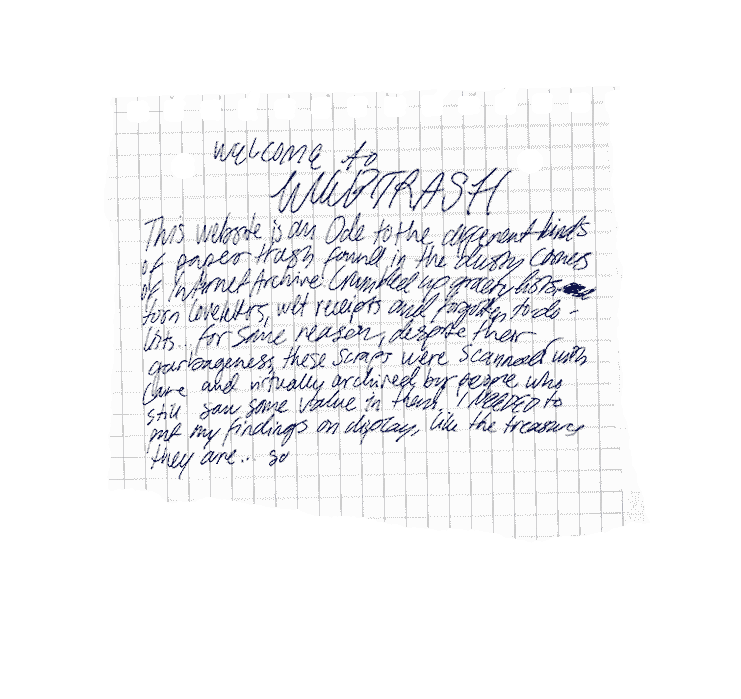
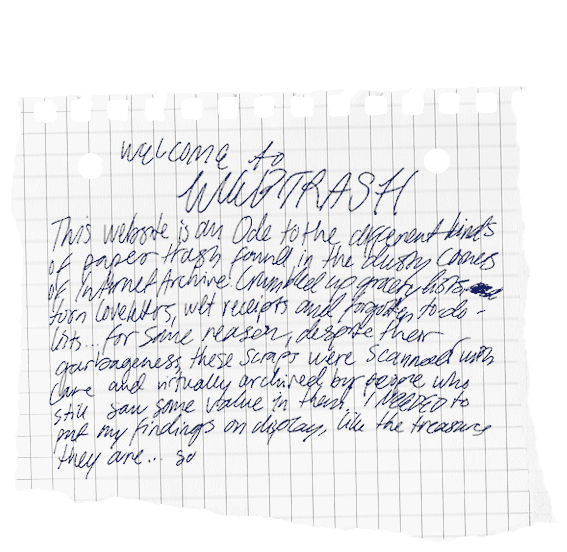
yksityiskohtien hiomista
letter-spacing from px to vw, changing the size of the img's and adjusting js code with it

diff --git a/css/trash.css b/css/trash.css
@@ -9,13 +9,6 @@
     src: url('../assets/fonts/CirrusCumulus.ttf ') format('truetype');
   }
 
-  .scroller {
-    width: 300px;
-    height: 100px;
-    overflow-y: scroll;
-    scrollbar-color: #007 #bada55;
-  }
-
 body {
     background: 
         /*linear-gradient(whitesmoke , transparent 10%),
@@ -42,10 +35,10 @@ header {
 
 header h1{
     font-family: Arial, Helvetica, sans-serif;
-    font-size: 10vw;
+    font-size: 12vw;
     color: #ffffe1;
     line-height: 0.9;
-    letter-spacing:-15px;
+    letter-spacing:-1vw;
     padding-right: 15%;
     
 }
@@ -99,7 +92,7 @@ nav a img{
 }
 
 .image-div img {
-    width: 500px; 
+    width: 200px; 
     height: auto;
     border-radius: 10px;
 }
@@ -117,7 +110,7 @@ nav a img{
     min-height: 30vh;
     margin-top: 10vh;
     overflow: auto;
-    scrollbar-color: #d2d2d2 #ffffe1;
+    scrollbar-color: lavender palegreen;
     scrollbar-width: thin;
     
 }

diff --git a/js/trash.js b/js/trash.js
@@ -13,8 +13,8 @@ function toggleDialog(event, id) {
 function positionImageDivs() {
     const imageDivs = document.querySelectorAll('.image-div');
     imageDivs.forEach(div => {
-        const x = Math.random() * (window.innerWidth - 500); // Adjust based on width of the div
-        const y = Math.random() * (window.innerHeight - 500); // Adjust based on header/footer height
+        const x = Math.random() * (window.innerWidth - 200); // Adjust based on width of the div
+        const y = Math.random() * (window.innerHeight - 200); // Adjust based on header/footer height
         div.style.position = 'absolute';
         div.style.left = `${Math.max(0, x)}px`; // Ensure x is not negative
         div.style.top = `${Math.max(0, y)}px`; // Ensure y is not negative

diff --git a/info.html b/info.html
@@ -24,13 +24,16 @@
             background-position: center; 
             background-repeat: no-repeat;
             z-index: 3;
+            mix-blend-mode:hard-light;
+            opacity: 95%;
             
         }
+        
         @media (max-width: 100px) {
-    .overlay {
+        .overlay {
         background-size: cover; /* Change to cover on smaller screens if needed */
+        }
     }
-}
 
         header {
             position: relative; 
@@ -57,7 +60,7 @@
     </header>
     <footer>
         <nav>
-            <a href="trash.html"><img src="./assets/img/back.png" class="info"></a>
+            <a href="index.html"><img src="./assets/img/back.png" class="info"></a>
         </nav>
     </footer>
 </body>

diff --git a/index.html b/index.html
@@ -13,7 +13,7 @@
     <div class="container">
 
         <header>
-            <h1>ONE MAN'S TRASH IS NOW EVERYONE'S TREASURE</h1>
+            <h1>ONE MAN'S TRASH IS NOW MY LOVELY TREASURE</h1>
         </header>
 
         <div class="image-div" onclick="toggleDialog(event, 'bank')"> 
